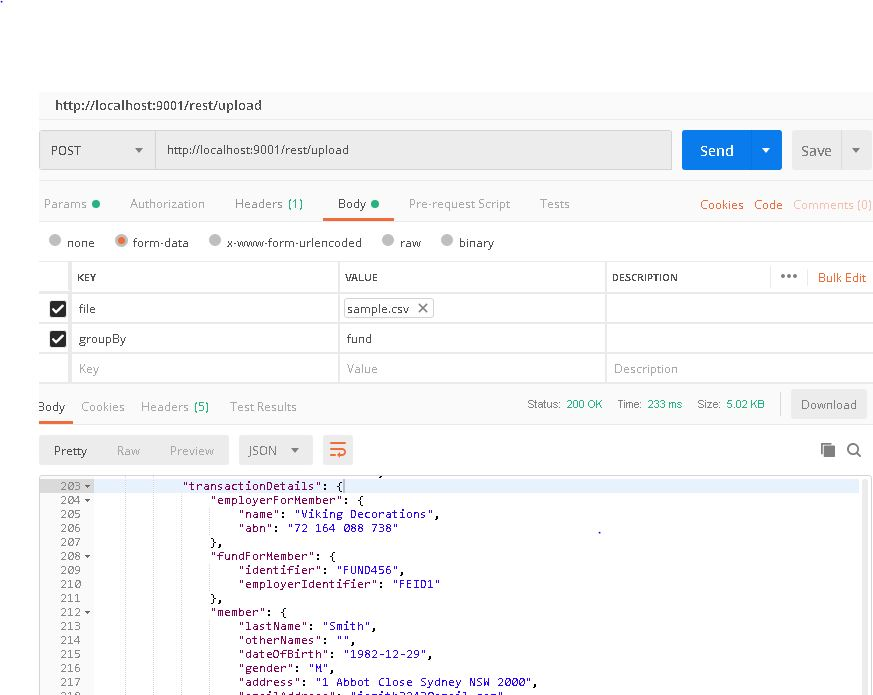
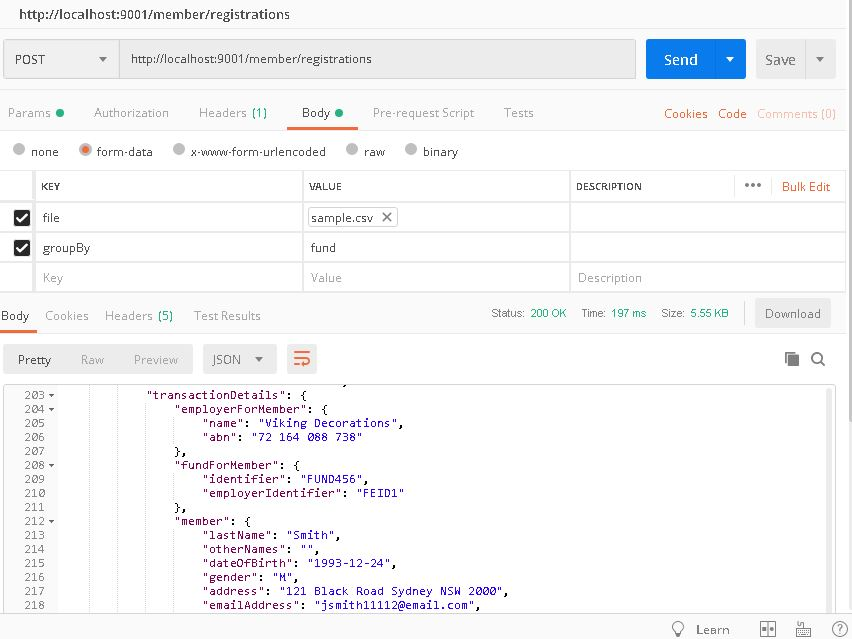
initital commit

diff --git a/src/main/java/com/au/superchoice/registration/controller/FileUploadController.java b/src/main/java/com/au/superchoice/registration/controller/FileUploadController.java
@@ -23,7 +23,7 @@ import java.util.Map;
 @RestController
 @Slf4j
 @NoArgsConstructor
-@RequestMapping("/rest")
+@RequestMapping("/member")
 public class FileUploadController {
 
     private static final String GROUP_BY_ERROR = "MRA Could not process  choose option groupBy employer or fund:  you have chosen File Name  ${fileName} ! and groupBy ${groupBy}";
@@ -33,7 +33,7 @@ public class FileUploadController {
     @Autowired
     ProcessFileService processFileService;
 
-    @PostMapping(path = "/upload", produces = MediaType.APPLICATION_JSON_VALUE)
+    @PostMapping(path = "/registrations", produces = MediaType.APPLICATION_JSON_VALUE)
     public ResponseEntity<Map<String, List<MemberRegistration>>> uploadFile(@RequestParam("file") MultipartFile file, @RequestParam("groupBy") String groupBy, Model model ) {
         log.info("MRA  in FileUploadController-->uploadFile ------>" + file.getOriginalFilename());
 
